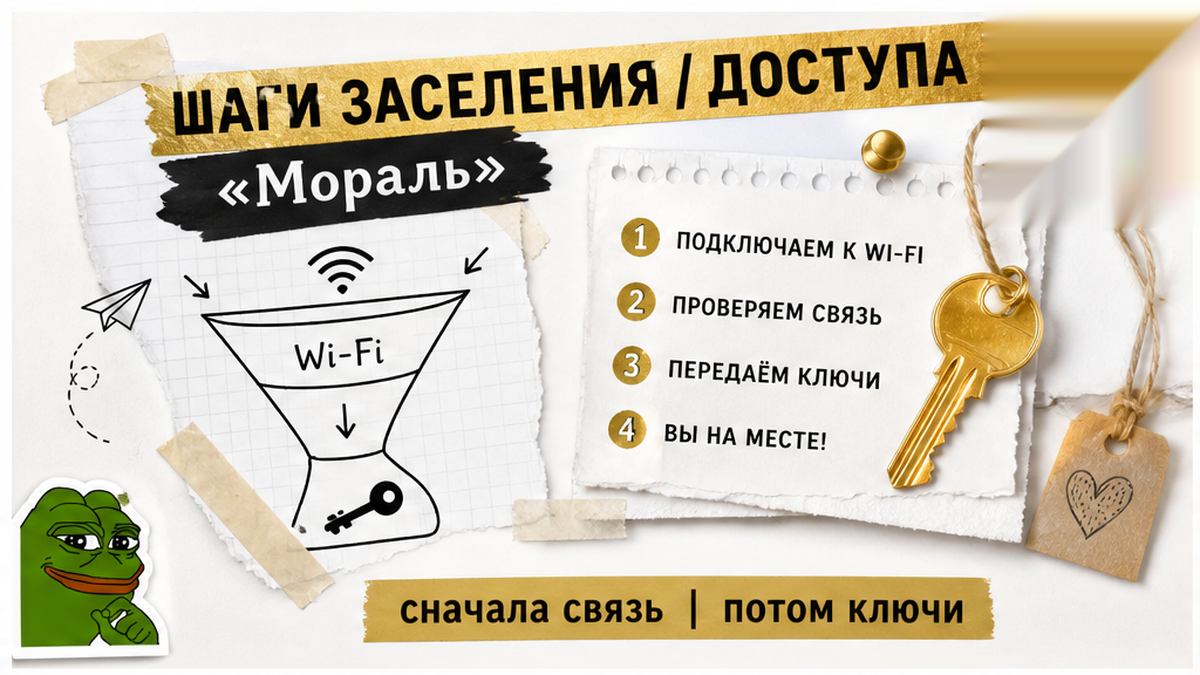
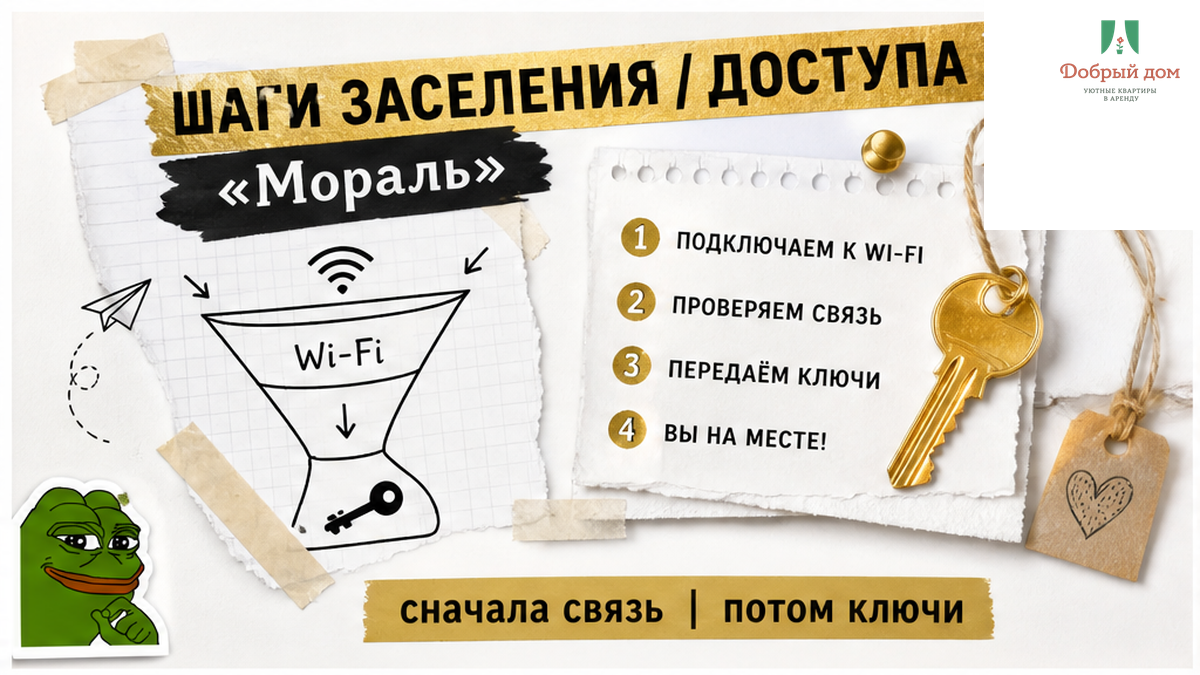
Publish B04: Wi-Fi на созвоне в 10:00 — посуточно Тюмень
Статья B04 опубликована на добрыйдом-72.рф: cover QA PASS, 8 PNG,
live-page PASS, 3 outbound interlink. Обновлены llms.txt и ledger.

Changed region(s): [[0.8017, 0.0, 1.0, 0.3422]]

diff --git a/memory/scout/scout-inputs-assembled.md b/memory/scout/scout-inputs-assembled.md
@@ -1,47 +1,64 @@
-# Scout assembled inputs — 2026-08-28 YEKT
+# Scout assembled inputs — 2026-08-30 YEKT
 
 ## CRITICAL INSTRUCTION FOR DEROUTER SCOUT
 Wordstat MCP-KV preflight and ALL probes were already executed by the orchestrator via live MCP-KV.
 wordstat_preflight: mcp-kv wordstat_get_user_info OK
 DO NOT refuse handoff. DO NOT claim CallMcpTool unavailable.
-Your job: write the complete `.cursor/excalibur-blog-handoff.md` using ONLY the verified data below.
+Your job: write the complete handoff markdown using ONLY the verified data below.
 
 ## Tenant
 - Brand: Добрый дом (посуточная / субаренда, Тюмень)
 - Voice: клышинская подача, комфорт+, от лица компании. НЕ ЕГРН, НЕ суд, НЕ «мы лучшие»
-- Cover season: лето (не зима героем)
+- Cover season: конец августа / лето (НЕ зима героем)
 - dzen_rf_pack: true
 
-## Angle rotation (last N=3)
-- B01: «Оплатил квартиру посуточно. Код прислали от чужой двери» — burn-at-door
-- B02: залог на выезде / «не вернём» — deposit family
+## Queue slot
+queue_slot: 2026-08-29 — 2026-08-31 | queue_num 2 | hook_id sept_business_trip
 
-angle_rotation: checked last N=3 | burn-at-door skip: yes | reason: B01 burn-at-door; new hook parents_sept_uni (university short stay, not code/door)
+## Angle rotation (last N=3 + recent WP)
+- B01: burn-at-door / код — SKIP family
+- B02: залог / скол на плите — SKIP
+- B03: вуз / «рядом» / родители сентябрь
+- WP 2026-08-30: закрывающие после выезда (22:00 + 10:00 созвон) — SKIP angle
+- WP 2026-08-29: розетки у стола — SKIP angle
+- WP 2026-08-25: где работать — SKIP angle
 
-Site blog anti-dup sibling (different angle required): «Приехали на 3 ночи к вузу — три остановки. Кровати не хватило» — our article = minutes walk to campus + enrollment window, NOT beds.
+angle_rotation: checked last N=3 | burn-at-door skip: yes | reason: B01; sept_business_trip rework to Wi-Fi on video call — fresh angle within queue
 
 ## Klyshin hook
-klyshin_hook: parents_sept_uni | original: «Привёз сына в вуз. Три ночи. В объявлении — «рядом с вузом».» | angle: 2–4 ночи на оформление, не годовая; lockpick: сколько минут пешком до корпуса? | signal: https://t.me/klyshin_A (live Aug 26 2026 — «формально чисто → риск», map to «рядом с вузом» в объявлении)
+klyshin_hook: sept_business_trip | original: «Звонок в 10:00. Заселился в 22:00.» | angle: Wi-Fi падает на видеосозвоне; в объявлении «быстрый интернет»; moral: сначала тест скорости/роутер, потом оплата | signal: https://t.me/klyshin_A
 
 ## Wordstat rework (LIVE MCP-KV — copy verbatim)
-wordstat_rework: probe «аренда квартиры на несколько дней» 66 (225) → probe «снять квартиру на несколько дней тюмень» 1 (55+11176) → probe «снять квартиру на сутки тюмень» 363 (55+11176) → probe «аренда квартиры посуточно» 811 (55+11176) / 46755 (225) → probe «снять квартиру посуточно в тюмени» 1749 (55+11176) → final P0 «квартиры посуточно тюмень» 5534 (55+11176) / 12553 (225) | clusters tried: несколько дней, студент, на сутки, посуточно, квартиры посуточно тюмень
+wordstat_rework: probe «командировка тюмень квартира» 1 (225) / пусто (55+11176) → probe «командировка квартира посуточно» 61 (225) → probe «аренда квартиры посуточно» 792 (55+11176) / 45932 (225) → probe «квартира посуточно тюмень» 5500 (55+11176) / 12325 (225) → final P0 «квартиры посуточно тюмень» 5500 (55+11176) / 12325 (225) | clusters tried: командировка, посуточно, квартиры посуточно тюмень
 
-wordstat: mcp_kv live | regions 55,11176,compare225 | P0 «квартиры посуточно тюмень» 5534 | RU compare 12553 | secondary «снять квартиру посуточно в тюмени» 1749
+wordstat: mcp_kv live | regions 55,11176,compare225 | P0 «квартиры посуточно тюмень» 5500 | RU compare 12325 | secondary «аренда квартиры посуточно» 792 / 45932
 
 ## topic_id
-B03
+B04
 
 ## short title for research_start (Klyshin rhythm, NOT final H1)
-Привёз сына в вуз на три ночи — «рядом» оказалось три остановки
+Звонок в 10:00 — Wi-Fi умер на третьей минуте
+
+## title_draft
+Звонок в 10:00. На третьей минуте Wi‑Fi умер — в объявлении «быстрый интернет»
 
 ## dzen_pattern
-5 — локальный + сезонный (1 сентября, родители + вуз, август бронь)
-dzen_shape_hint: «Три ночи к вузу: «рядом» в объявлении vs минуты пешком на карте»
+3 — страх → инструкция в §1 (созвон сорвался → что проверить до оплаты)
+dzen_shape_hint: «Созвон в 10:00: Wi‑Fi умер — что спросить у хоста до перевода»
 
 ## signal_urls
 - https://t.me/klyshin_A
 - https://добрыйдом-72.рф/blog/
-- https://dzen.ru/holyslav
+
+## cover_season_note
+YEKT 2026-08-30 — конец августа, летний свет; no winter/snow/ice hero
+
+## wp_category_hint
+posutochnaya-arenda
+
+## interlink_siblings
+- https://добрыйдом-72.рф/blog/beskontaktnoe-zaselenie-posutochno-tyumen/
+- https://добрыйдом-72.рф/blog/perevel-zalog-za-posutochnuyu-na-vyezde-skazali-ne-vernem/
 
 ## Required handoff format
-Write markdown handoff with fields: topic_id, short_title, title_draft, dzen_pattern, dzen_shape_hint, external_signal, signal_urls, wordstat_preflight, klyshin_hook, wordstat_rework, wordstat, angle_rotation, queue_slot, cover_season_note, wp_category_hint (posutochnaya-arenda), interlink_siblings (B01, B02 URLs from published-articles).
+Write markdown handoff with fields: topic_id, slug suggestion, short_title, title_draft, dzen_pattern, dzen_shape_hint, external_signal, signal_urls, wordstat_preflight, klyshin_hook, wordstat_rework, wordstat, angle_rotation, queue_slot, cover_season_note, wp_category_hint, interlink_siblings.

diff --git a/memory/scout/scout-inputs-2026-08-30.md b/memory/scout/scout-inputs-2026-08-30.md
@@ -1,0 +1,65 @@
+# Scout inputs — 2026-08-30 YEKT slot (Добрый дом)
+
+## Run context
+- date: 2026-08-30 (воскресенье), timezone Asia/Yekaterinburg
+- season: конец августа / начало сентября, командировочный сезон
+- tenant: Добрый дом, посуточная аренда Тюмень
+- queue slot: p0_queue window 2026-08-29 — 2026-08-31 → hook_id `sept_business_trip` (queue_num 2)
+
+## Angle rotation (last N=3 published / recent WP)
+Recent titles to NOT duplicate:
+1. B01 — код/бесконтакт/дверь (burn-at-door) — SKIP family
+2. B02 — залог/скол на плите — SKIP
+3. B03 — вуз/«рядом»/родители сентябрь
+4. WP 2026-08-30 — закрывающие после выезда (22:00 заселение + 10:00 созвон)
+5. WP 2026-08-29 — розетки у стола нет
+6. WP 2026-08-25 — где работать в квартире
+
+**Fresh angle within sept_business_trip:** Wi‑Fi падает на видеосозвоне; в объявлении «быстрый интернет». Не розетки, не закрывающие, не «где сесть».
+
+## Klyshin hook (bank)
+- hook_id: sept_business_trip
+- original: «Звонок в 10:00. Заселился в 22:00.»
+- rework angle: «На созвоне пропал Wi‑Fi — в объявлении “быстрый интернет”»
+- klyshin_signal: reader inside apartment on call; moral: сначала тест скорости/роутер, потом оплата; refusal beat
+- dzen_pattern_prefer: [2, 3] — кейс с цифрой или страх→инструкция
+
+## Wordstat preflight
+- wordstat_preflight: mcp-kv wordstat_get_user_info OK (verified by director via MCP-KV 2026-08-30)
+- DIRECTOR_ATTESTATION: live Wordstat probes below were fetched via MCP-KV wordstat_get_top_requests in this run. Use these frequencies as canonical. Do NOT emit WORDSTAT MCP BLOCKER.
+
+## Wordstat live probes (MCP-KV)
+| phrase | regions | volume |
+|--------|---------|--------|
+| командировка тюмень квартира | 55+11176 | ~0 (empty) |
+| командировка тюмень квартира | 225 | 1 |
+| командировка квартира посуточно | 225 | 61 |
+| аренда квартиры посуточно | 55+11176 | 792 |
+| аренда квартиры посуточно | 225 | 45932 |
+| квартира посуточно тюмень | 55+11176 | 5500 |
+| квартира посуточно тюмень | 225 | 12325 |
+| закрывающие документы аренда квартиры | 225 | 30 |
+| вайфай квартира посуточно | 225 | 13 |
+
+## Wordstat rework log
+probe «командировка тюмень квартира» 1 (225) / пусто (55+11176) →
+probe «командировка квартира посуточно» 61 (225) →
+probe «аренда квартиры посуточно» 792 (55+11176) / 45932 (225) →
+probe «квартира посуточно тюмень» 5500 (55+11176) / 12325 (225) →
+**final P0:** «квартиры посуточно тюмень» 5500 / 12325
+
+Title rides P0 demand; article angle = Wi‑Fi на созвоне (business trip pain).
+
+## External signal
+- https://t.me/klyshin_A — delivery rhythm (§1 burn, short hits)
+- site blog recent posts confirm saturation of rozetki/closing docs angles
+
+## Constraints
+- Voice: от лица компании «Добрый дом», комфорт+, не адвокат, не ЕГРН
+- Funnel: TG after checklist, MAX after «у нас так»
+- Phone: +7 993 574-83-22
+- Cover: лето/конец августа, не зима
+- topic_id: B04
+
+## Title draft (Klyshin rhythm, NOT final H1)
+«Звонок в 10:00. На третьей минуте Wi‑Fi умер — в объявлении “быстрый интернет”»

diff --git a/shared/published-articles.md b/shared/published-articles.md
@@ -8,3 +8,4 @@ Excalibur-2-Cloud — не копировать URL tymenrieltor.ru.
 | 2026-08-20 | B01 | beskontaktnoe-zaselenie-posutochno-tyumen | https://добрыйдом-72.рф/blog/beskontaktnoe-zaselenie-posutochno-tyumen/ | published |
 | 2026-08-20 | B02 | perevel-zalog-za-posutochnuyu-na-vyezde-skazali-ne-vernem | https://xn---72-9cdob8azaodt6k.xn--p1ai/blog/perevel-zalog-za-posutochnuyu-na-vyezde-skazali-ne-vernem/ | published |
 | 2026-08-28 | B03 | kvartiry-posutochno-v-tyumeni-k-1-sentyabrya-ryadom-s-vuzom-tri-ostanovki | /blog/kvartiry-posutochno-v-tyumeni-k-1-sentyabrya-ryadom-s-vuzom-tri-ostanovki/ | published |
+| 2026-08-30 | B04 | kvartira-posutochno-zvonok-v-10-00-wi-fi-umer-na-tretej-minute | /blog/kvartira-posutochno-zvonok-v-10-00-wi-fi-umer-na-tretej-minute/ | published |

diff --git a/shared/published-titles.md b/shared/published-titles.md
@@ -11,3 +11,4 @@ lessons, benchmarks, QA reports или соседние research-notes как о
 |----------|------|-------|--------|
 | B01 | beskontaktnoe-zaselenie-posutochno-tyumen | Оплатил квартиру посуточно. Код прислали от чужой двери | published |
 | B02 | perevel-zalog-za-posutochnuyu-na-vyezde-skazali-ne-vernem | Снял квартиру посуточно. Залог не вернули — нашли скол на плите | published |
+| B03 | kvartiry-posutochno-v-tyumeni-k-1-sentyabrya-ryadom-s-vuzom-tri-ostanovki | Привезли сына к вузу — «рядом» оказалось 40 минут пешком | published |
